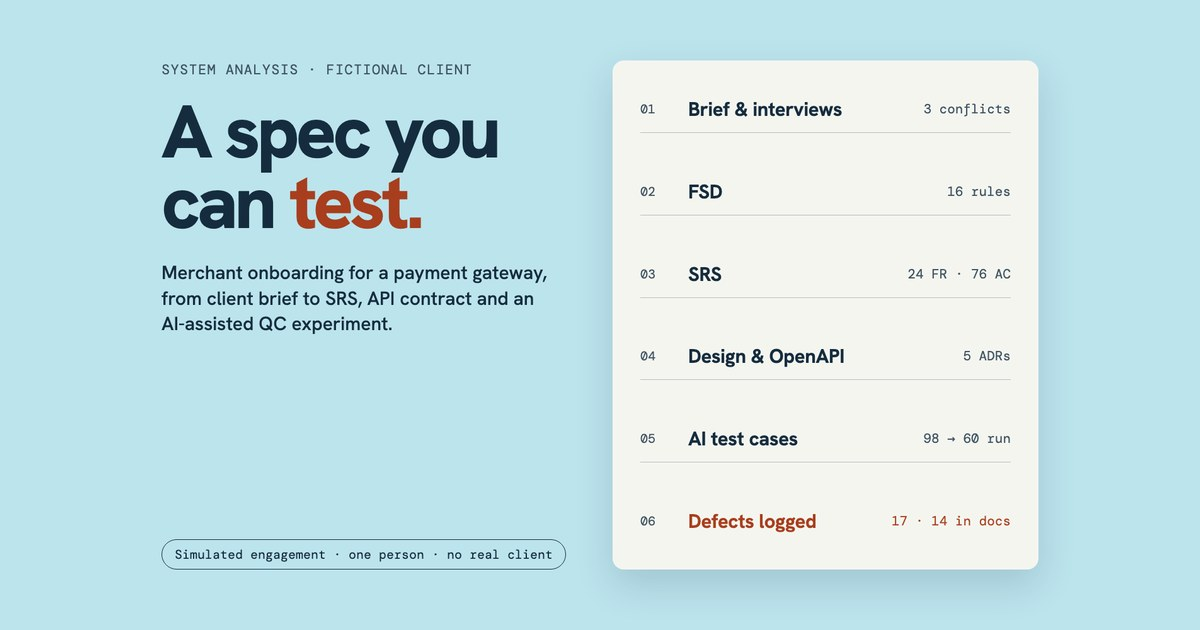
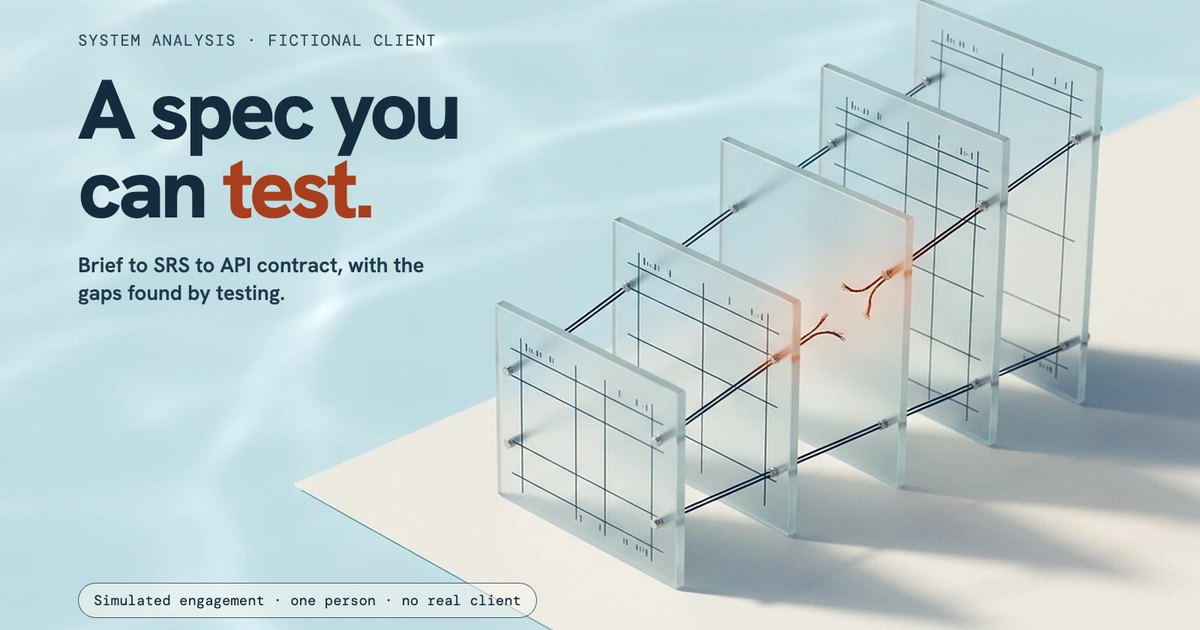
New SA Pack cover: glass document sheets with a broken trace thread
Artwork supplied by the site owner; title and simulated-engagement
label added in the site fonts. Card, case-page hero and OG image
updated, with new alt text and caption.

diff --git a/case-sa-pack.html b/case-sa-pack.html
@@ -14,7 +14,7 @@
   <meta property="og:image" content="https://dzahyk.github.io/assets/og/case-sa-pack.jpg">
   <meta property="og:image:width" content="1200">
   <meta property="og:image:height" content="630">
-  <meta property="og:image:alt" content="Preview card for the SA Pack case study: A spec you can test. Brief and interviews, FSD, SRS, design and OpenAPI, AI test cases, defects logged.">
+  <meta property="og:image:alt" content="Preview card for the SA Pack case study: A spec you can test. Five frosted-glass sheets joined by threads, one thread broken and glowing orange.">
   <meta name="twitter:card" content="summary_large_image">
   <meta name="twitter:image" content="https://dzahyk.github.io/assets/og/case-sa-pack.jpg">
   <title>SA Pack — Case study</title>
@@ -48,8 +48,8 @@
     </section>
 
     <figure class="case-image page-width">
-      <div class="case-image-wrap"><img src="assets/projects/sa-pack.webp" width="1600" height="1000" alt="SA Pack overview: the headline “A spec you can test.” beside six steps with their numbers — brief and interviews with 3 conflicts, FSD with 16 rules, SRS with 24 functional requirements and 76 acceptance criteria, design and OpenAPI with 5 ADRs, 98 AI test cases of which 60 were run, and 17 defects logged, 14 of them in the documents" decoding="async" fetchpriority="high"></div>
-      <figcaption><span>Package overview. Every number comes from the repository and its scripts.</span><span data-case-position>09 / 09</span></figcaption>
+      <div class="case-image-wrap"><img src="assets/projects/sa-pack.webp" width="1600" height="1000" alt="SA Pack cover: the headline “A spec you can test.” beside five frosted-glass sheets standing in a row on a paper base, standing for the documents from brief to API contract. Navy threads join matching points on neighbouring sheets; one thread between two sheets is broken and glows orange, marking a gap found by testing" decoding="async" fetchpriority="high"></div>
+      <figcaption><span>Five documents, traced point to point. The broken thread is a gap the tests found.</span><span data-case-position>09 / 09</span></figcaption>
     </figure>
 
     <section class="case-stats page-width" aria-label="Key numbers">

diff --git a/index.html b/index.html
@@ -261,7 +261,7 @@
           </article>
           <article class="project-card reveal" data-project="sa-pack">
             <button class="project-open" type="button" data-open="sa-pack" data-cursor="View" aria-label="View SA Pack, system analysis simulated engagement">
-              <span class="project-art"><img class="project-image" src="assets/projects/sa-pack.webp" width="1600" height="1000" alt="SA Pack overview: the headline “A spec you can test.” beside six steps from brief and interviews to 17 defects logged" loading="lazy" decoding="async"><span class="project-handoff" aria-hidden="true"><img src="assets/pixel-guide.svg" width="40" height="56" alt=""><span>A spec you can test</span></span><span class="project-open-label" aria-hidden="true">View project ↗</span></span>
+              <span class="project-art"><img class="project-image" src="assets/projects/sa-pack.webp" width="1600" height="1000" alt="SA Pack cover: the headline “A spec you can test.” beside five frosted-glass sheets on a paper base, joined by navy threads, with one thread between two sheets broken and glowing orange" loading="lazy" decoding="async"><span class="project-handoff" aria-hidden="true"><img src="assets/pixel-guide.svg" width="40" height="56" alt=""><span>A spec you can test</span></span><span class="project-open-label" aria-hidden="true">View project ↗</span></span>
               <span class="project-caption"><span><strong>SA Pack</strong><span class="project-discipline">System analysis</span></span></span>
             </button>
             <p class="project-hook"><span>Do the FSD, SRS and API agree?</span></p>
